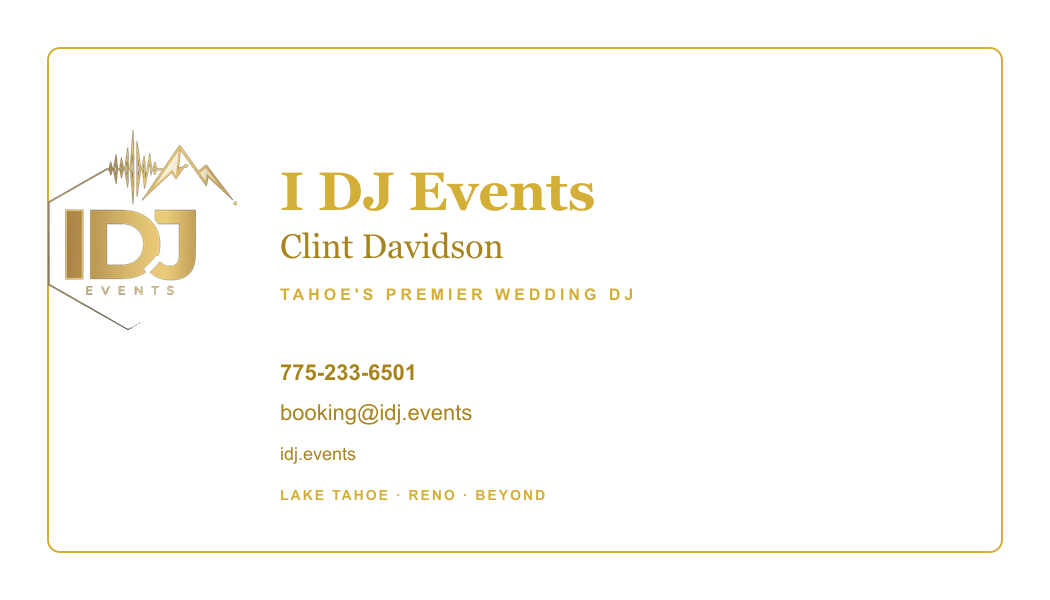
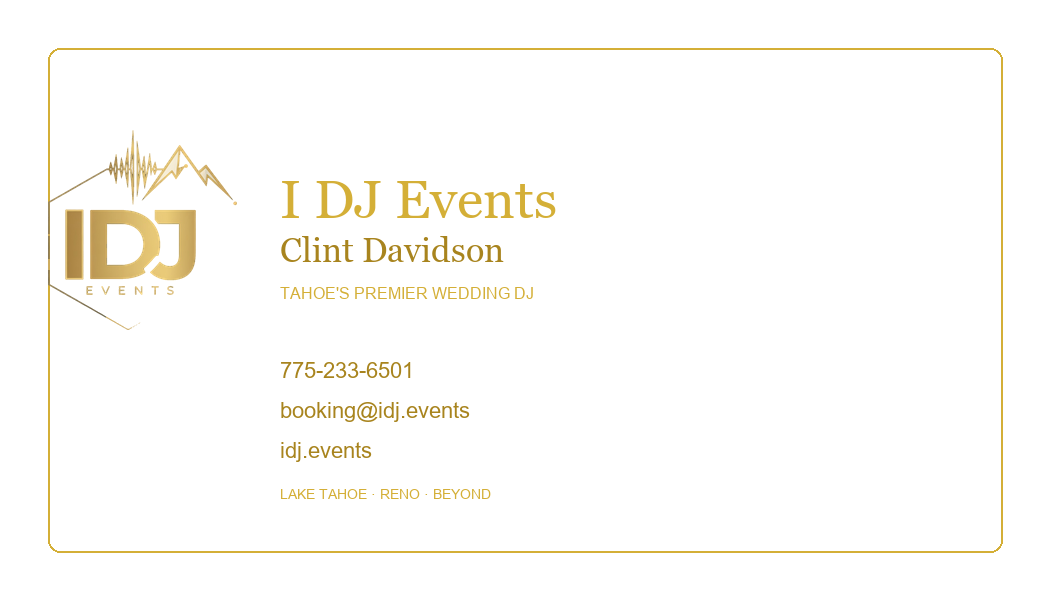
Clean transparent brand mark fringe for crisp navy/gold pages.
Despill near-black/navy matte on alpha edges, regenerate web/apparel/print
sizes from the cleaned master with premultiplied resize, and refresh OG +
business-card embeds. No logo redesign; anim/ intro video left untracked.

diff --git a/scripts/clean_brand_logos.py b/scripts/clean_brand_logos.py
@@ -1,0 +1,309 @@
+"""
+Clean I DJ Events transparent brand marks (despill / choke / regenerate sizes).
+
+Usage (from repo root, on a machine with Pillow + scipy + numpy):
+  python scripts/clean_brand_logos.py
+
+Reads public/brand/print/mark-transparent-3000.png (or git HEAD copy),
+removes near-black / near-white / navy matte fringe on alpha edges,
+regenerates transparent web/apparel/print sizes with premultiplied resize,
+and refreshes og-image.jpg + business-card PNGs that embed the mark.
+
+Does not redesign the logo. Leaves SVG vectors and public/brand/anim/ alone.
+"""
+from __future__ import annotations
+
+import json
+import subprocess
+from pathlib import Path
+
+import numpy as np
+from PIL import Image, ImageDraw, ImageFilter, ImageFont
+from scipy import ndimage
+
+ROOT = Path(__file__).resolve().parents[1]
+BRAND = ROOT / "public" / "brand"
+QC = ROOT / "scripts" / "_logo_qc"
+
+
+def fringe_stats(im_or_path) -> dict:
+    im = Image.open(im_or_path) if isinstance(im_or_path, (str, Path)) else im_or_path
+    arr = np.asarray(im.convert("RGBA"), dtype=np.float32)
+    rgb, a = arr[..., :3], arr[..., 3]
+    soft = (a >= 5) & (a <= 250)
+    lum = rgb[soft].mean(axis=1) if soft.any() else np.array([])
+    return {
+        "size": f"{arr.shape[1]}x{arr.shape[0]}",
+        "soft": int(soft.sum()),
+        "whiteish": int(((lum > 200) & (a[soft] < 220)).sum()) if soft.any() else 0,
+        "blackish": int(((lum < 40) & (a[soft] > 20) & (a[soft] < 220)).sum()) if soft.any() else 0,
+    }
+
+
+def opaque_neighbor_mean(rgb: np.ndarray, solid: np.ndarray, radius: int = 2) -> np.ndarray:
+    w = np.ones((2 * radius + 1, 2 * radius + 1), dtype=np.float64)
+    solid_f = solid.astype(np.float64)
+    count = ndimage.convolve(solid_f, w, mode="nearest")
+    out = np.zeros_like(rgb, dtype=np.float64)
+    for c in range(3):
+        acc = ndimage.convolve(rgb[..., c] * solid_f, w, mode="nearest")
+        out[..., c] = np.divide(acc, count, out=np.zeros_like(acc), where=count > 0)
+    gmean = rgb[solid].mean(axis=0) if solid.any() else np.array([212.0, 175.0, 55.0])
+    out[count == 0] = gmean
+    return out.astype(np.float32)
+
+
+def clean_fringe(im: Image.Image, choke: bool = True) -> Image.Image:
+    arr = np.asarray(im.convert("RGBA"), dtype=np.float32)
+    rgb = arr[..., :3].copy()
+    a = arr[..., 3].copy()
+    solid = a >= 245
+    soft = (a > 0) & (a < 245)
+    radius = 2 if max(im.size) < 600 else 3
+    neigh = opaque_neighbor_mean(rgb, solid, radius=radius)
+    lum = rgb.mean(axis=-1)
+    delta = np.linalg.norm(rgb - neigh, axis=-1)
+    contaminated = soft & (
+        (delta > 28)
+        | (lum < 55)
+        | ((lum > 200) & (a < 220))
+        | ((rgb[..., 2] + 8 >= rgb[..., 0]) & (rgb[..., 0] < 130) & (lum < 140))
+    )
+    rgb = np.where(contaminated[..., None], neigh, rgb)
+    mild = soft & (~contaminated)
+    rgb = np.where(mild[..., None], rgb * 0.55 + neigh * 0.45, rgb)
+
+    a2 = a.copy()
+    a2[a2 < 14] = 0
+    if choke:
+        eroded = np.asarray(
+            Image.fromarray(a2.astype(np.uint8), "L").filter(ImageFilter.MinFilter(3)),
+            dtype=np.float32,
+        )
+        a2 = np.minimum(a2, eroded * 0.5 + a2 * 0.5)
+        a2[a2 < 12] = 0
+        blur_a = np.asarray(
+            Image.fromarray(a2.astype(np.uint8), "L").filter(ImageFilter.GaussianBlur(0.35)),
+            dtype=np.float32,
+        )
+        edge = (a2 > 0) & (a2 < 255)
+        a2 = np.where(edge, blur_a, a2)
+
+    soft2 = (a2 > 0) & (a2 < 245)
+    solid2 = a2 >= 245
+    neigh2 = opaque_neighbor_mean(rgb, solid2 if solid2.any() else solid, radius=2)
+    rgb = np.where(soft2[..., None], neigh2, rgb)
+    rgb = np.where(a2[..., None] < 1, 0.0, rgb)
+    return Image.fromarray(
+        np.dstack([np.clip(rgb, 0, 255), np.clip(a2, 0, 255)]).astype(np.uint8), "RGBA"
+    )
+
+
+def resize_rgba_premultiplied(im: Image.Image, size: int) -> Image.Image:
+    arr = np.asarray(im.convert("RGBA"), dtype=np.float32)
+    rgb, a = arr[..., :3], arr[..., 3]
+    solid = a >= 240
+    mean_solid = (
+        rgb[solid].mean(axis=0)
+        if solid.any()
+        else np.array([212.0, 175.0, 55.0], dtype=np.float32)
+    )
+    fill = rgb.copy()
+    fill[a < 1] = mean_solid
+    a01 = a / 255.0
+    premul_im = Image.fromarray(
+        np.clip(np.dstack([fill * a01[..., None], a]), 0, 255).astype(np.uint8), "RGBA"
+    )
+    premul_im.thumbnail((size, size), Image.Resampling.LANCZOS)
+    p = np.asarray(premul_im, dtype=np.float32)
+    prgb, pa = p[..., :3], p[..., 3]
+    mask = pa > 0.5
+    out_rgb = np.zeros_like(prgb)
+    out_rgb[mask] = np.clip(prgb[mask] / (pa[mask] / 255.0)[..., None], 0, 255)
+    return Image.fromarray(np.dstack([out_rgb, pa]).astype(np.uint8), "RGBA")
+
+
+def composite_on(bg_rgb, mark, canvas=420):
+    bg = Image.new("RGBA", (canvas, canvas), bg_rgb + (255,))
+    m = mark.copy()
+    m.thumbnail((int(canvas * 0.84), int(canvas * 0.84)), Image.Resampling.LANCZOS)
+    bg.alpha_composite(m, ((canvas - m.width) // 2, (canvas - m.height) // 2))
+    return bg.convert("RGB")
+
+
+def make_comparison(before, after, out: Path) -> None:
+    panels = []
+    for label, im, bg in [
+        ("BEFORE navy", before, (10, 22, 40)),
+        ("AFTER navy", after, (10, 22, 40)),
+        ("BEFORE gold", before, (212, 175, 55)),
+        ("AFTER gold", after, (212, 175, 55)),
+        ("BEFORE white", before, (255, 255, 255)),
+        ("AFTER white", after, (255, 255, 255)),
+    ]:
+        panel = composite_on(bg, im, 360)
+        d = ImageDraw.Draw(panel)
+        d.rectangle((0, 0, 359, 26), fill=(0, 0, 0))
+        d.text((8, 6), label, fill=(255, 255, 255))
+        panels.append(panel)
+    sheet = Image.new("RGB", (panels[0].width * 2, panels[0].height * 3), (16, 16, 16))
+    for i, p in enumerate(panels):
+        sheet.paste(p, ((i % 2) * p.width, (i // 2) * p.height))
+    out.parent.mkdir(parents=True, exist_ok=True)
+    sheet.save(out, "JPEG", quality=92)
+
+
+def regenerate_og(mark512: Path, out_path: Path) -> None:
+    width, height = 1200, 630
+    hero = ROOT / "public" / "images" / "backgrounds" / "hero-home.jpg"
+    bg = Image.open(hero).convert("RGB").resize((width, height), Image.Resampling.LANCZOS)
+    overlay = Image.new("RGBA", (width, height), (0, 0, 0, 0))
+    ov = ImageDraw.Draw(overlay)
+    for y in range(height):
+        t = y / (height - 1)
+        op = (
+            (0.55 + (0.62 - 0.55) * (t / 0.55))
+            if t < 0.55
+            else (0.62 + (0.85 - 0.62) * ((t - 0.55) / 0.45))
+        )
+        ov.line([(0, y), (width, y)], fill=(10, 22, 40, int(255 * op)))
+    composed = Image.alpha_composite(bg.convert("RGBA"), overlay)
+    mark = Image.open(mark512).convert("RGBA")
+    mark.thumbnail((200, 200), Image.Resampling.LANCZOS)
+    composed.alpha_composite(mark, ((width - mark.width) // 2, 150))
+    draw = ImageDraw.Draw(composed)
+    try:
+        font_title = ImageFont.truetype("C:/Windows/Fonts/georgia.ttf", 86)
+        font_sub = ImageFont.truetype("C:/Windows/Fonts/georgiai.ttf", 38)
+        font_small = ImageFont.truetype("C:/Windows/Fonts/arial.ttf", 22)
+    except OSError:
+        font_title = font_sub = font_small = ImageFont.load_default()
+
+    def center_text(y, text, font, fill):
+        bbox = draw.textbbox((0, 0), text, font=font)
+        tw = bbox[2] - bbox[0]
+        draw.text(((width - tw) / 2, y - (bbox[3] - bbox[1])), text, font=font, fill=fill)
+
+    center_text(430, "I DJ Events", font_title, (255, 255, 255, 255))
+    center_text(492, "Tahoe's Premier Wedding DJ", font_sub, (212, 175, 55, 255))
+    center_text(548, "LAKE TAHOE  ·  RENO  ·  BEYOND", font_small, (255, 255, 255, 230))
+    composed.convert("RGB").save(out_path, "JPEG", quality=88, optimize=True)
+
+
+def regenerate_business_cards(mark_master: Image.Image) -> None:
+    gold = (212, 175, 55)
+    gold_deep = (168, 132, 30)
+    w, h = 1050, 600
+
+    def card_base():
+        im = Image.new("RGB", (w, h), (255, 255, 255))
+        d = ImageDraw.Draw(im)
+        d.rounded_rectangle((48, 48, 1002, 552), radius=12, outline=gold, width=2)
+        return im, d
+
+    try:
+        fonts = {
+            k: ImageFont.truetype(p, s)
+            for k, p, s in [
+                ("title", "C:/Windows/Fonts/georgia.ttf", 54),
+                ("name", "C:/Windows/Fonts/georgia.ttf", 34),
+                ("small", "C:/Windows/Fonts/arial.ttf", 16),
+                ("body", "C:/Windows/Fonts/arial.ttf", 22),
+                ("tiny", "C:/Windows/Fonts/arial.ttf", 14),
+                ("bt", "C:/Windows/Fonts/georgia.ttf", 36),
+                ("bs", "C:/Windows/Fonts/georgia.ttf", 26),
+                ("bb", "C:/Windows/Fonts/arial.ttf", 20),
+                ("bsm", "C:/Windows/Fonts/arial.ttf", 18),
+                ("bxs", "C:/Windows/Fonts/arial.ttf", 16),
+                ("url", "C:/Windows/Fonts/arialbd.ttf", 22),
+            ]
+        }
+    except OSError:
+        dflt = ImageFont.load_default()
+        fonts = {k: dflt for k in ["title", "name", "small", "body", "tiny", "bt", "bs", "bb", "bsm", "bxs", "url"]}
+
+    front, d = card_base()
+    logo = clean_fringe(resize_rgba_premultiplied(mark_master, 200), choke=False)
+    front.paste(logo, (48, 130), logo)
+    d.text((280, 168), "I DJ Events", font=fonts["title"], fill=gold)
+    d.text((280, 230), "Clint Davidson", font=fonts["name"], fill=gold_deep)
+    d.text((280, 284), "TAHOE'S PREMIER WEDDING DJ", font=fonts["small"], fill=gold)
+    d.text((280, 358), "775-233-6501", font=fonts["body"], fill=gold_deep)
+    d.text((280, 398), "booking@idj.events", font=fonts["body"], fill=gold_deep)
+    d.text((280, 438), "idj.events", font=fonts["body"], fill=gold_deep)
+    d.text((280, 486), "LAKE TAHOE · RENO · BEYOND", font=fonts["tiny"], fill=gold)
+    front.save(BRAND / "print" / "business-card-front.png", "PNG", optimize=True)
+
+    back, d = card_base()
+    logo2 = clean_fringe(resize_rgba_premultiplied(mark_master, 180), choke=False)
+    back.paste(logo2, (435, 58), logo2)
+
+    def ctext(y, text, font, fill):
+        bbox = d.textbbox((0, 0), text, font=font)
+        tw = bbox[2] - bbox[0]
+        d.text(((w - tw) / 2, y), text, font=font, fill=fill)
+
+    ctext(248, "Clint Davidson", fonts["bt"], gold)
+    ctext(300, "DJ · MC · Lighting · Ceremony Sound", fonts["bs"], gold_deep)
+    ctext(348, "Officiant · Karaoke · Event Coordination", fonts["bb"], gold_deep)
+    ctext(400, "Custom packages for every celebration", fonts["bsm"], gold)
+    ctext(440, "Third-party vendors available — photo, catering, beauty & more", fonts["bxs"], gold_deep)
+    ctext(498, "idj.events", fonts["url"], gold)
+    back.save(BRAND / "print" / "business-card-back.png", "PNG", optimize=True)
+
+
+def git_blob(path: str) -> bytes:
+    return subprocess.check_output(["git", "show", f"HEAD:{path}"], cwd=ROOT)
+
+
+def main() -> None:
+    QC.mkdir(parents=True, exist_ok=True)
+
+    orig_3000 = QC / "orig-mark-3000.png"
+    orig_3000.write_bytes(git_blob("public/brand/print/mark-transparent-3000.png"))
+    before_512 = QC / "before-mark-transparent-512.png"
+    before_512.write_bytes(git_blob("public/brand/web/mark-transparent-512.png"))
+
+    before = {
+        "print/3000": fringe_stats(orig_3000),
+        "web/512": fringe_stats(before_512),
+    }
+    print("BEFORE", json.dumps(before, indent=2))
+
+    cleaned = clean_fringe(Image.open(orig_3000).convert("RGBA"))
+    cleaned.save(QC / "cleaned-master-trimmed.png")
+    print("AFTER master", fringe_stats(cleaned))
+    make_comparison(Image.open(before_512).convert("RGBA"), cleaned, QC / "compare-before-after.jpg")
+
+    exports = [
+        ("transparent/mark-2048.png", 2048),
+        ("transparent/mark-1024.png", 1024),
+        ("transparent/mark-512.png", 512),
+        ("transparent/mark-256.png", 256),
+        ("transparent/mark-128.png", 128),
+        ("web/mark-transparent-512.png", 512),
+        ("web/mark-transparent-256.png", 256),
+        ("apparel/mark-transparent-1200.png", 1200),
+        ("apparel/mark-transparent-800.png", 800),
+        ("print/mark-transparent-3000.png", 3000),
+        ("embroidery/logo-mark-reference-3000.png", 3000),
+    ]
+    after = {}
+    for rel, size in exports:
+        out_im = cleaned if size >= max(cleaned.size) else clean_fringe(
+            resize_rgba_premultiplied(cleaned, size), choke=False
+        )
+        out_im.save(BRAND / rel, "PNG", optimize=True)
+        after[rel] = fringe_stats(out_im)
+        print("Wrote", rel, after[rel])
+
+    regenerate_og(BRAND / "web" / "mark-transparent-512.png", BRAND / "web" / "og-image.jpg")
+    regenerate_business_cards(cleaned)
+    (QC / "fringe-report.json").write_text(
+        json.dumps({"before": before, "after": after}, indent=2), encoding="utf-8"
+    )
+    print("Done. QC artifacts:", QC)
+
+
+if __name__ == "__main__":
+    main()
